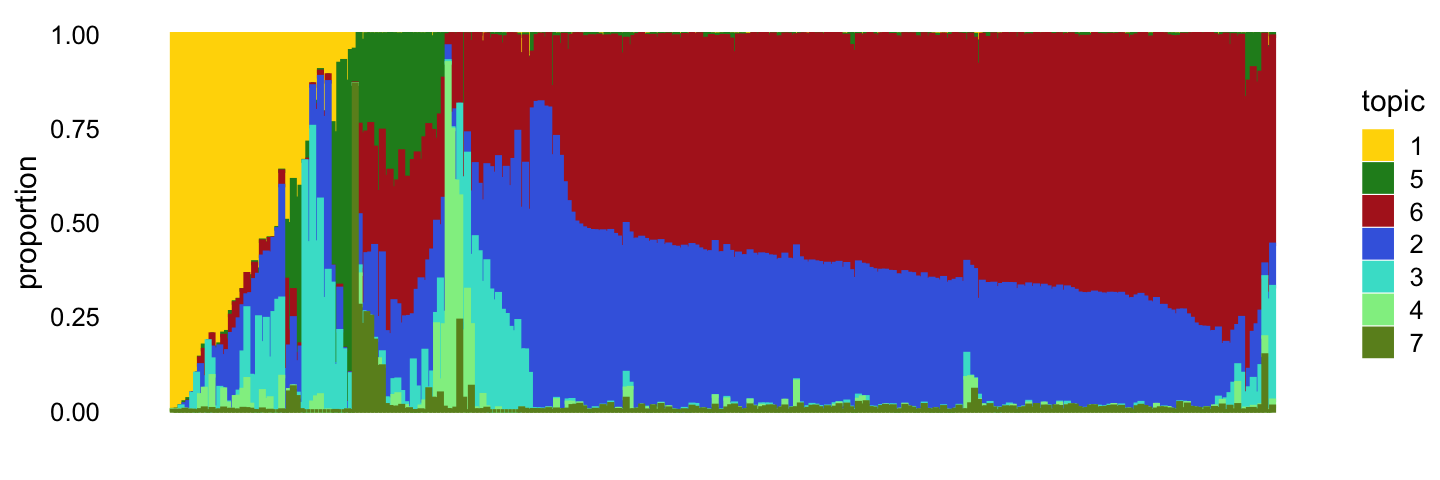
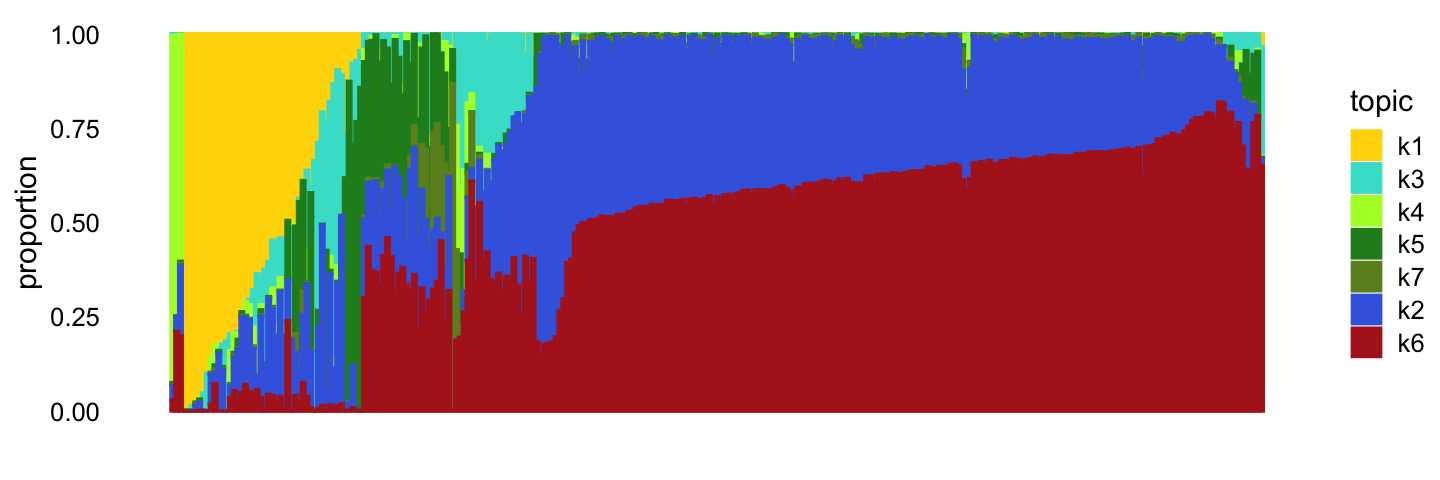
Fixed structure plot in plots_tracheal_epithelium analysis.

diff --git a/docs/plots_tracheal_epithelium.html b/docs/plots_tracheal_epithelium.html
@@ -412,22 +412,23 @@ This reproducible <a href="http://rmarkdown.rstudio.com">R Markdown</a> analysis
 <div class="panel panel-default">
 <div class="panel-heading">
 <p class="panel-title">
-<a data-toggle="collapse" data-parent="#workflowr-checks" href="#strongRepositoryversionstrongahrefhttpsgithubcomstephenslabsinglecelltopicstreec7b77ee2b8b9d0ac075a4cfcf78a1a755ca868d6targetblankc7b77eea"> <span class="glyphicon glyphicon-ok text-success" aria-hidden="true"></span> <strong>Repository version:</strong> <a href="https://github.com/stephenslab/single-cell-topics/tree/c7b77ee2b8b9d0ac075a4cfcf78a1a755ca868d6" target="_blank">c7b77ee</a> </a>
+<a data-toggle="collapse" data-parent="#workflowr-checks" href="#strongRepositoryversionstrongahrefhttpsgithubcomstephenslabsinglecelltopicstree3a7bd7465276742c305377eb2737c52e0e031abetargetblank3a7bd74a"> <span class="glyphicon glyphicon-ok text-success" aria-hidden="true"></span> <strong>Repository version:</strong> <a href="https://github.com/stephenslab/single-cell-topics/tree/3a7bd7465276742c305377eb2737c52e0e031abe" target="_blank">3a7bd74</a> </a>
 </p>
 </div>
[2 lines of base64/hex data omitted]
 <div class="panel-body">
 <p>
 Great! You are using Git for version control. Tracking code development and connecting the code version to the results is critical for reproducibility.
 </p>
 <p>
-The results in this page were generated with repository version <a href="https://github.com/stephenslab/single-cell-topics/tree/c7b77ee2b8b9d0ac075a4cfcf78a1a755ca868d6" target="_blank">c7b77ee</a>. See the <em>Past versions</em> tab to see a history of the changes made to the R Markdown and HTML files.
+The results in this page were generated with repository version <a href="https://github.com/stephenslab/single-cell-topics/tree/3a7bd7465276742c305377eb2737c52e0e031abe" target="_blank">3a7bd74</a>. See the <em>Past versions</em> tab to see a history of the changes made to the R Markdown and HTML files.
 </p>
 <p>
 Note that you need to be careful to ensure that all relevant files for the analysis have been committed to Git prior to generating the results (you can use <code>wflow_publish</code> or <code>wflow_git_commit</code>). workflowr only checks the R Markdown file, but you know if there are other scripts or data files that it depends on. Below is the status of the Git repository when the results were generated:
 </p>
 <pre><code>
 Ignored files:
+    Ignored:    analysis/figure/
     Ignored:    data/droplet.RData
     Ignored:    data/pbmc_68k.RData
     Ignored:    data/pbmc_purified.RData
@@ -478,6 +479,40 @@ Message
 </tr>
 </thead>
 <tbody>
+<tr>
+<td>
+Rmd
+</td>
+<td>
+<a href="https://github.com/stephenslab/single-cell-topics/blob/3a7bd7465276742c305377eb2737c52e0e031abe/analysis/plots_tracheal_epithelium.Rmd" target="_blank">3a7bd74</a>
+</td>
+<td>
+Peter Carbonetto
+</td>
+<td>
+2020-08-19
+</td>
+<td>
+wflow_publish(“plots_tracheal_epithelium.Rmd”)
+</td>
+</tr>
+<tr>
+<td>
+html
+</td>
+<td>
+<a href="https://rawcdn.githack.com/stephenslab/single-cell-topics/f4bdf191a428ef8917fdd6f9e386653350125a0d/docs/plots_tracheal_epithelium.html" target="_blank">f4bdf19</a>
+</td>
+<td>
+Peter Carbonetto
+</td>
+<td>
+2020-08-19
+</td>
+<td>
+Added explanatory text and improved PC-based manual clustering of
+</td>
+</tr>
 <tr>
 <td>
 Rmd
@@ -1069,6 +1104,17 @@ Date
 <tbody>
 <tr>
 <td>
+<a href="https://github.com/stephenslab/single-cell-topics/blob/f4bdf191a428ef8917fdd6f9e386653350125a0d/docs/figure/plots_tracheal_epithelium.Rmd/droplet-pca-with-topics-2-1.png" target="_blank">f4bdf19</a>
+</td>
+<td>
+Peter Carbonetto
+</td>
+<td>
+2020-08-19
+</td>
+</tr>
+<tr>
+<td>
 <a href="https://github.com/stephenslab/single-cell-topics/blob/fb21b3b781ba22db8b89d1fb531cf91e63e4e1d5/docs/figure/plots_tracheal_epithelium.Rmd/droplet-pca-with-topics-2-1.png" target="_blank">fb21b3b</a>
 </td>
 <td>
@@ -1148,19 +1194,25 @@ Peter Carbonetto
 </div>
 </div>
 <p>In summary, topics 1 and 6 pick up discrete “cell types”, whereas the other topics characterize more continuous variation in gene expression, perhaps cell types along a continuous trajectory of development. There are some other discrete clusters that seem to be composed of distinct combinations of topics that we will neeed to examine more closely.</p>
-<p>Four suggested by PCA analysis, plus a “background” cluster (<span class="math inline">\(c_0\)</span>):</p>
-<pre class="r"><code>droplet_cluster_colors &lt;- c(&quot;gray&quot;,&quot;darkblue&quot;,&quot;gold&quot;,&quot;yellowgreen&quot;,&quot;firebrick&quot;)
-pca_droplet &lt;- prcomp(poisson2multinom(fit_droplet)$L)$x
-n &lt;- nrow(pca_droplet)
-x &lt;- rep(&quot;c0&quot;,n)
-pc1 &lt;- pca_droplet[,&quot;PC1&quot;]
-pc2 &lt;- pca_droplet[,&quot;PC2&quot;]
-pc6 &lt;- pca_droplet[,&quot;PC6&quot;]
-x[pc2 &gt; -0.1] &lt;- &quot;c1&quot;
+<p>As suggested by this analysis, we can easily delineate four clusters, the majority of which are included in cluster labeled c_1$. Here we construct this clustering by hand, using the PCs computed from the topic cproportions:</p>
+<pre class="r"><code>pca_droplet &lt;- prcomp(poisson2multinom(fit_droplet)$L)$x
+n    &lt;- nrow(pca_droplet)
+x    &lt;- rep(&quot;c0&quot;,n)
+pc1  &lt;- pca_droplet[,&quot;PC1&quot;]
+pc2  &lt;- pca_droplet[,&quot;PC2&quot;]
+pc6  &lt;- pca_droplet[,&quot;PC6&quot;]
+x[pc2 &gt; -0.1]  &lt;- &quot;c1&quot;
 x[pc6 &lt; -0.04] &lt;- &quot;c2&quot;
-x[(pc1 - 0)^2 + (pc2 + 0.75)^2 &lt; 0.09] &lt;- &quot;c3&quot;
+x[(pc1 - 0)^2 + (pc2 + 0.75)^2 &lt; 0.09]  &lt;- &quot;c3&quot;
 x[(pc1 - 0.5)^2 + (pc2 + 0.9)^2 &lt; 0.04] &lt;- &quot;c4&quot;
 samples_droplet$cluster &lt;- factor(x)
+print(table(samples_droplet$cluster))
+# 
+#   c0   c1   c2   c3   c4 
+#   73 6533   50  162  375</code></pre>
+<p>Indeed, the vast majority of the cells are in the <span class="math inline">\(c_1\)</span> cluster.</p>
+<p>These next few scatterplots show the same PCs as before, with the samples labeled according to their assignment to these clusters:</p>
+<pre class="r"><code>droplet_cluster_colors &lt;- c(&quot;gray&quot;,&quot;darkblue&quot;,&quot;gold&quot;,&quot;yellowgreen&quot;,&quot;firebrick&quot;)
 p9 &lt;- pca_plot_with_labels(fit_droplet,c(&quot;PC1&quot;,&quot;PC2&quot;),samples_droplet$cluster,
                            droplet_cluster_colors) + labs(fill = &quot;cluster&quot;)
 p10 &lt;- pca_plot_with_labels(fit_droplet,c(&quot;PC4&quot;,&quot;PC5&quot;),samples_droplet$cluster,
@@ -1168,85 +1220,20 @@ p10 &lt;- pca_plot_with_labels(fit_droplet,c(&quot;PC4&quot;,&quot;PC5&quot;),sa
 p11 &lt;- pca_plot_with_labels(fit_droplet,c(&quot;PC5&quot;,&quot;PC6&quot;),samples_droplet$cluster,
                             droplet_cluster_colors) + labs(fill = &quot;cluster&quot;)
 plot_grid(p9,p10,p11)</code></pre>
-<p><img src="figure/plots_tracheal_epithelium.Rmd/droplet-clustering-1-1.png" width="720" style="display: block; margin: auto;" /></p>
-<p>
-<button type="button" class="btn btn-default btn-xs btn-workflowr btn-workflowr-fig" data-toggle="collapse" data-target="#fig-droplet-clustering-1-1">
-Past versions of droplet-clustering-1-1.png
-</button>
-</p>
-<div id="fig-droplet-clustering-1-1" class="collapse">
-<div class="table-responsive">
-<table class="table table-condensed table-hover">
-<thead>
-<tr>
-<th>
-Version
-</th>
-<th>
-Author
-</th>
-<th>
-Date
-</th>
-</tr>
-</thead>
-<tbody>
-<tr>
-<td>
-<a href="https://github.com/stephenslab/single-cell-topics/blob/fb21b3b781ba22db8b89d1fb531cf91e63e4e1d5/docs/figure/plots_tracheal_epithelium.Rmd/droplet-clustering-1-1.png" target="_blank">fb21b3b</a>
-</td>
-<td>
-Peter Carbonetto
-</td>
-<td>
-2020-08-19
-</td>
-</tr>
-<tr>
-<td>
-<a href="https://github.com/stephenslab/single-cell-topics/blob/368a74a30418728c7ae896e6ec1c567e24ace79f/docs/figure/plots_tracheal_epithelium.Rmd/droplet-clustering-1-1.png" target="_blank">368a74a</a>
-</td>
-<td>
-Peter Carbonetto
-</td>
-<td>
-2020-08-19
-</td>
-</tr>
-<tr>
-<td>
-<a href="https://github.com/stephenslab/single-cell-topics/blob/aca46cc698358965ad25399bf7b19f74a6b5df23/docs/figure/plots_tracheal_epithelium.Rmd/droplet-clustering-1-1.png" target="_blank">aca46cc</a>
-</td>
-<td>
-Peter Carbonetto
-</td>
-<td>
-2020-08-19
-</td>
-</tr>
-</tbody>
-</table>
-</div>
-</div>
-<p>The vast majority of the droplet samples are in the <span class="math inline">\(c_1\)</span> cluster:</p>
-<pre class="r"><code>table(samples_droplet$cluster)
-# 
-#   c0   c1   c2   c3   c4 
-#   73 6533   50  162  375</code></pre>
-<p>This suggests separate treatment of the <span class="math inline">\(c_1\)</span> cluster.</p>
-<p><strong>TO DO:</strong> Add more text here.</p>
-<pre class="r"><code>set.seed(1)
-droplet_topic_colors &lt;- c(&quot;gold&quot;,&quot;royalblue&quot;,&quot;turquoise&quot;,&quot;lightgreen&quot;,
+<p><img src="figure/plots_tracheal_epithelium.Rmd/droplet-clustering-2-1.png" width="840" style="display: block; margin: auto;" /></p>
+<p>In the following, we will treat the more abundant clusters, <span class="math inline">\(c_1\)</span> and <span class="math inline">\(c_4\)</span>, separately from the rest of the samples.</p>
+<p><strong>TO DO:</strong> Add text here.</p>
+<pre class="r"><code>droplet_topic_colors &lt;- c(&quot;gold&quot;,&quot;royalblue&quot;,&quot;turquoise&quot;,&quot;greenyellow&quot;,
                           &quot;forestgreen&quot;,&quot;firebrick&quot;,&quot;olivedrab&quot;)
-topic_ordering &lt;- c(1,5,6,2,3,4,7)
+names(droplet_topic_colors) &lt;- paste0(&quot;k&quot;,1:7)                       
+topics &lt;- c(&quot;k1&quot;,&quot;k3&quot;,&quot;k4&quot;,&quot;k5&quot;,&quot;k7&quot;,&quot;k2&quot;,&quot;k6&quot;)
+set.seed(1)
 fit_droplet_rare &lt;- select(poisson2multinom(fit_droplet),
                            loadings = which(samples_droplet$cluster != &quot;c1&quot; &amp;
                                             samples_droplet$cluster != &quot;c4&quot;))
-tsne_droplet_rare &lt;- tsne_from_topics(fit_droplet_rare,dims = 1,perplexity = 30,
-                                      verbose = FALSE)
-p12 &lt;- structure_plot(fit_droplet_rare,rows = order(tsne_droplet_rare$Y),
-                      topics = topic_ordering,
-                      colors = droplet_topic_colors[topic_ordering])
+p12 &lt;- structure_plot(fit_droplet_rare,verbose = FALSE,topics = topics,
+                      scaling = c(1.5,1,1,1,1,1,2),
+                      colors = droplet_topic_colors[topics])
 print(p12)</code></pre>
 <p><img src="figure/plots_tracheal_epithelium.Rmd/droplet-structure-plot-rare-1.png" width="720" style="display: block; margin: auto;" /></p>
 <p>
@@ -1286,80 +1273,7 @@ Peter Carbonetto
 </table>
 </div>
 </div>
-<pre class="r"><code>temp &lt;- select(poisson2multinom(fit_droplet),
-               loadings = which(samples_droplet$tissue == &quot;Ionocyte&quot;))
-structure_plot(temp,rows = order(temp$L[,3]),
-                      topics = topic_ordering,
-                      colors = droplet_topic_colors[topic_ordering])</code></pre>
-<p><img src="figure/plots_tracheal_epithelium.Rmd/droplet-structure-plot-rare-2.png" width="720" style="display: block; margin: auto;" /></p>
-<pre class="r"><code>temp2 &lt;- select(poisson2multinom(fit_droplet),
-                loadings = which(samples_droplet$tissue == &quot;Tuft&quot;))
-structure_plot(temp2,perplexity = 30,
-               topics = topic_ordering,
-               colors = droplet_topic_colors[topic_ordering])</code></pre>
-<p><img src="figure/plots_tracheal_epithelium.Rmd/droplet-structure-plot-rare-3.png" width="720" style="display: block; margin: auto;" /></p>
-<pre class="r"><code>temp3 &lt;- select(poisson2multinom(fit_droplet),
-                loadings = which(samples_droplet$tissue == &quot;Neuroendocrine&quot;))
-structure_plot(temp3,perplexity = 30,
-               topics = topic_ordering,
-               colors = droplet_topic_colors[topic_ordering])</code></pre>
-<p><img src="figure/plots_tracheal_epithelium.Rmd/droplet-structure-plot-rare-4.png" width="720" style="display: block; margin: auto;" /></p>
-<pre><code># Read the 158 x 7 data matrix successfully!
-# OpenMP is working. 1 threads.
-# Using no_dims = 1, perplexity = 30.000000, and theta = 0.100000
-# Computing input similarities...
-# Building tree...
-# Done in 0.01 seconds (sparsity = 0.752924)!
-# Learning embedding...
-# Iteration 50: error is 46.264071 (50 iterations in 0.01 seconds)
-# Iteration 100: error is 45.443002 (50 iterations in 0.01 seconds)
-# Iteration 150: error is 44.347590 (50 iterations in 0.01 seconds)
-# Iteration 200: error is 45.517446 (50 iterations in 0.01 seconds)
-# Iteration 250: error is 46.081133 (50 iterations in 0.01 seconds)
-# Iteration 300: error is 0.338211 (50 iterations in 0.02 seconds)
-# Iteration 350: error is 0.262554 (50 iterations in 0.01 seconds)
-# Iteration 400: error is 0.262338 (50 iterations in 0.01 seconds)
-# Iteration 450: error is 0.262333 (50 iterations in 0.01 seconds)
-# Iteration 500: error is 0.262333 (50 iterations in 0.02 seconds)
-# Iteration 550: error is 0.262333 (50 iterations in 0.01 seconds)
-# Iteration 600: error is 0.262333 (50 iterations in 0.01 seconds)
-# Iteration 650: error is 0.262333 (50 iterations in 0.01 seconds)
-# Iteration 700: error is 0.262333 (50 iterations in 0.01 seconds)
-# Iteration 750: error is 0.262333 (50 iterations in 0.01 seconds)
-# Iteration 800: error is 0.262333 (50 iterations in 0.01 seconds)
-# Iteration 850: error is 0.262333 (50 iterations in 0.01 seconds)
-# Iteration 900: error is 0.262333 (50 iterations in 0.01 seconds)
-# Iteration 950: error is 0.262333 (50 iterations in 0.01 seconds)
-# Iteration 1000: error is 0.262333 (50 iterations in 0.01 seconds)
-# Fitting performed in 0.25 seconds.
-# Read the 96 x 7 data matrix successfully!
-# OpenMP is working. 1 threads.
-# Using no_dims = 1, perplexity = 30.000000, and theta = 0.100000
-# Computing input similarities...
-# Building tree...
-# Done in 0.01 seconds (sparsity = 0.983941)!
-# Learning embedding...
-# Iteration 50: error is 51.369311 (50 iterations in 0.01 seconds)
-# Iteration 100: error is 49.505412 (50 iterations in 0.01 seconds)
-# Iteration 150: error is 49.533513 (50 iterations in 0.01 seconds)
-# Iteration 200: error is 45.739453 (50 iterations in 0.01 seconds)
-# Iteration 250: error is 48.708066 (50 iterations in 0.01 seconds)
-# Iteration 300: error is 1.416143 (50 iterations in 0.01 seconds)
-# Iteration 350: error is 0.382373 (50 iterations in 0.01 seconds)
-# Iteration 400: error is 0.312025 (50 iterations in 0.01 seconds)
-# Iteration 450: error is 0.312065 (50 iterations in 0.01 seconds)
-# Iteration 500: error is 0.312066 (50 iterations in 0.01 seconds)
-# Iteration 550: error is 0.312066 (50 iterations in 0.01 seconds)
-# Iteration 600: error is 0.312065 (50 iterations in 0.01 seconds)
-# Iteration 650: error is 0.312065 (50 iterations in 0.01 seconds)
-# Iteration 700: error is 0.312067 (50 iterations in 0.01 seconds)
-# Iteration 750: error is 0.312067 (50 iterations in 0.01 seconds)
-# Iteration 800: error is 0.312066 (50 iterations in 0.01 seconds)
-# Iteration 850: error is 0.312067 (50 iterations in 0.01 seconds)
-# Iteration 900: error is 0.312065 (50 iterations in 0.01 seconds)
-# Iteration 950: error is 0.312065 (50 iterations in 0.01 seconds)
-# Iteration 1000: error is 0.312067 (50 iterations in 0.01 seconds)
-# Fitting performed in 0.12 seconds.</code></pre>
+<p><strong>TO DO:</strong> Add text here.</p>
 <pre class="r"><code>set.seed(1)
 fit_droplet_abundant &lt;-
   select(poisson2multinom(fit_droplet),
@@ -1370,10 +1284,61 @@ tsne_droplet_abundant &lt;- tsne_from_topics(fit_droplet_abundant,dims = 1,n = 1
 Y   &lt;- tsne_droplet_abundant$Y
 p13 &lt;- structure_plot(fit_droplet_abundant,
                       rows   = rownames(Y)[order(Y)],
-                      topics = topic_ordering,
-                      colors = droplet_topic_colors[topic_ordering])
+                      colors = droplet_topic_colors)
 print(p13)</code></pre>
 <p><img src="figure/plots_tracheal_epithelium.Rmd/droplet-structure-plot-abundant-1.png" width="960" style="display: block; margin: auto;" /></p>
+<p>
+<button type="button" class="btn btn-default btn-xs btn-workflowr btn-workflowr-fig" data-toggle="collapse" data-target="#fig-droplet-structure-plot-abundant-1">
+Past versions of droplet-structure-plot-abundant-1.png
+</button>
+</p>
+<div id="fig-droplet-structure-plot-abundant-1" class="collapse">
+<div class="table-responsive">
+<table class="table table-condensed table-hover">
+<thead>
+<tr>
+<th>
+Version
+</th>
+<th>
+Author
+</th>
+<th>
+Date
+</th>
+</tr>
+</thead>
+<tbody>
+<tr>
+<td>
+<a href="https://github.com/stephenslab/single-cell-topics/blob/f4bdf191a428ef8917fdd6f9e386653350125a0d/docs/figure/plots_tracheal_epithelium.Rmd/droplet-structure-plot-abundant-1.png" target="_blank">f4bdf19</a>
+</td>
+<td>
+Peter Carbonetto
+</td>
+<td>
+2020-08-19
+</td>
+</tr>
+</tbody>
+</table>
+</div>
+</div>
+<pre class="r"><code>temp &lt;- select(poisson2multinom(fit_droplet),
+               loadings = which(samples_droplet$tissue == &quot;Ionocyte&quot;))
+structure_plot(temp,rows = order(temp$L[,3]),
+                      topics = topic_ordering,
+                      colors = droplet_topic_colors[topic_ordering])
+temp2 &lt;- select(poisson2multinom(fit_droplet),
+                loadings = which(samples_droplet$tissue == &quot;Tuft&quot;))
+structure_plot(temp2,perplexity = 30,
+               topics = topic_ordering,
+               colors = droplet_topic_colors[topic_ordering])
+temp3 &lt;- select(poisson2multinom(fit_droplet),
+                loadings = which(samples_droplet$tissue == &quot;Neuroendocrine&quot;))
+structure_plot(temp3,perplexity = 30,
+               topics = topic_ordering,
+               colors = droplet_topic_colors[topic_ordering])</code></pre>
 <p>It is helpful to compare these results with clustering reported in the Montoro <em>et al</em> (2018) paper. To make this comparison, we layer the 7 clusters on top of these PCs:</p>
 <pre class="r"><code>droplet_celltype_colors &lt;-
   c(&quot;royalblue&quot;,      # Basal
@@ -1549,7 +1514,7 @@ ggplot(cbind(samples_droplet,pca$x),aes(x = PC5,y = PC6,fill = tissue)) +
 # [1] stats     graphics  grDevices utils     datasets  methods   base     
 # 
 # other attached packages:
-# [1] cowplot_1.0.0      ggplot2_3.3.0      fastTopics_0.3-161 testthat_2.3.1    
+# [1] cowplot_1.0.0      ggplot2_3.3.0      fastTopics_0.3-162 testthat_2.3.1    
 # 
 # loaded via a namespace (and not attached):
 #  [1] httr_1.4.1           tidyr_1.0.0          pkgload_1.0.2       
